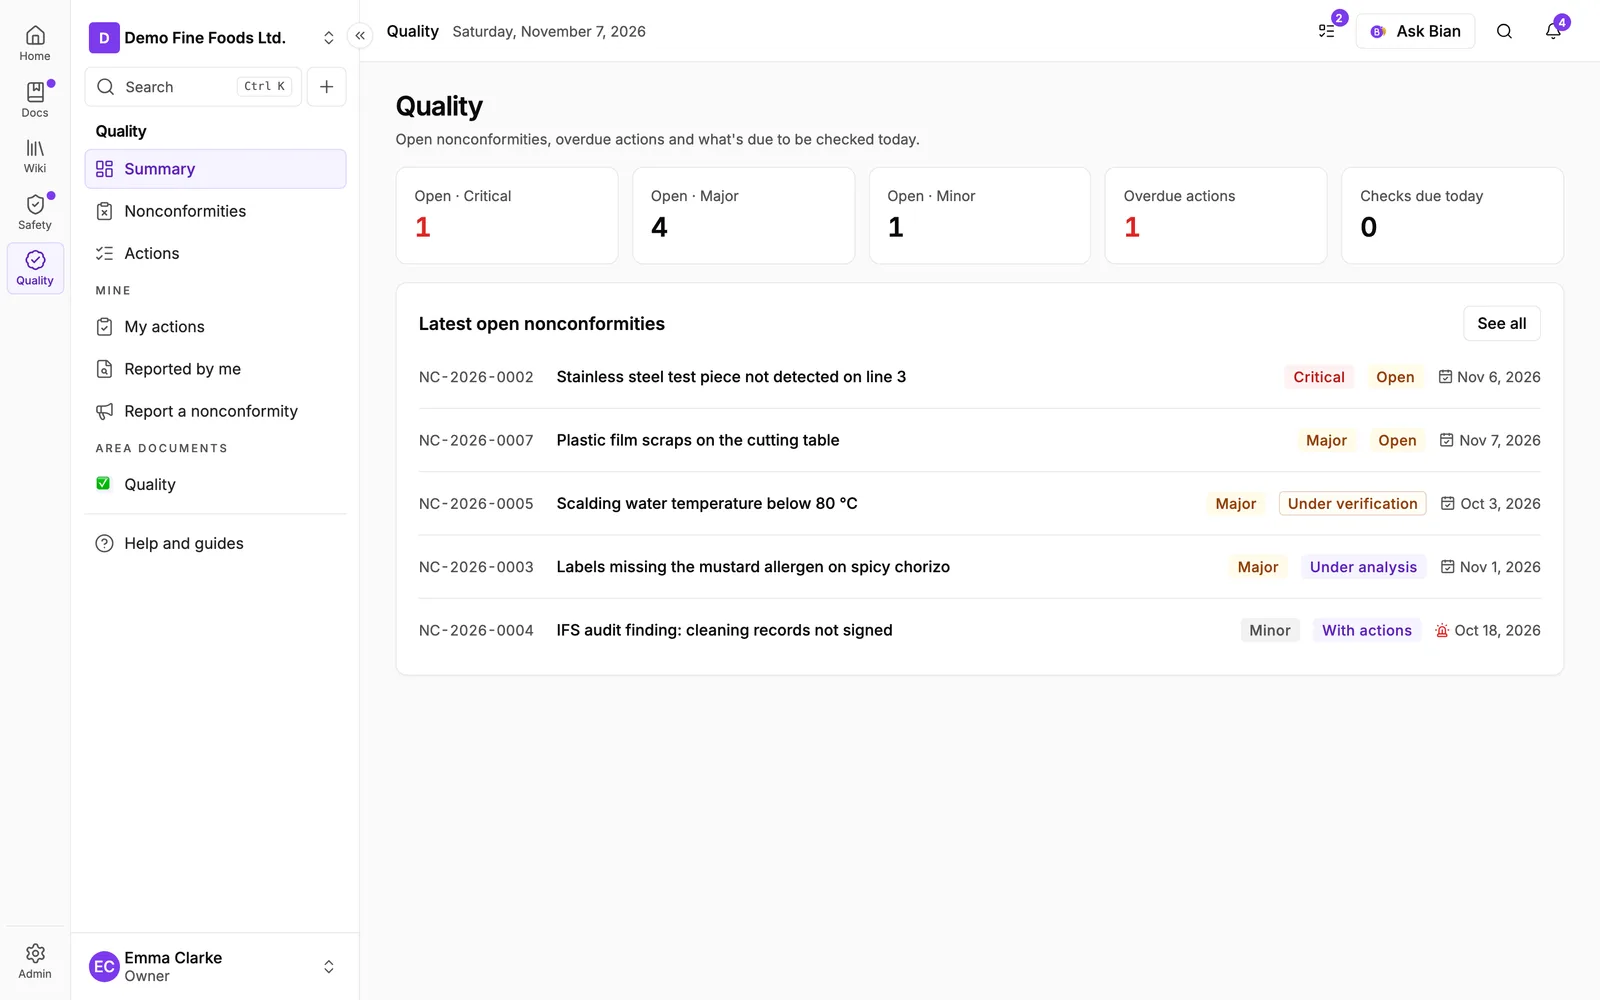
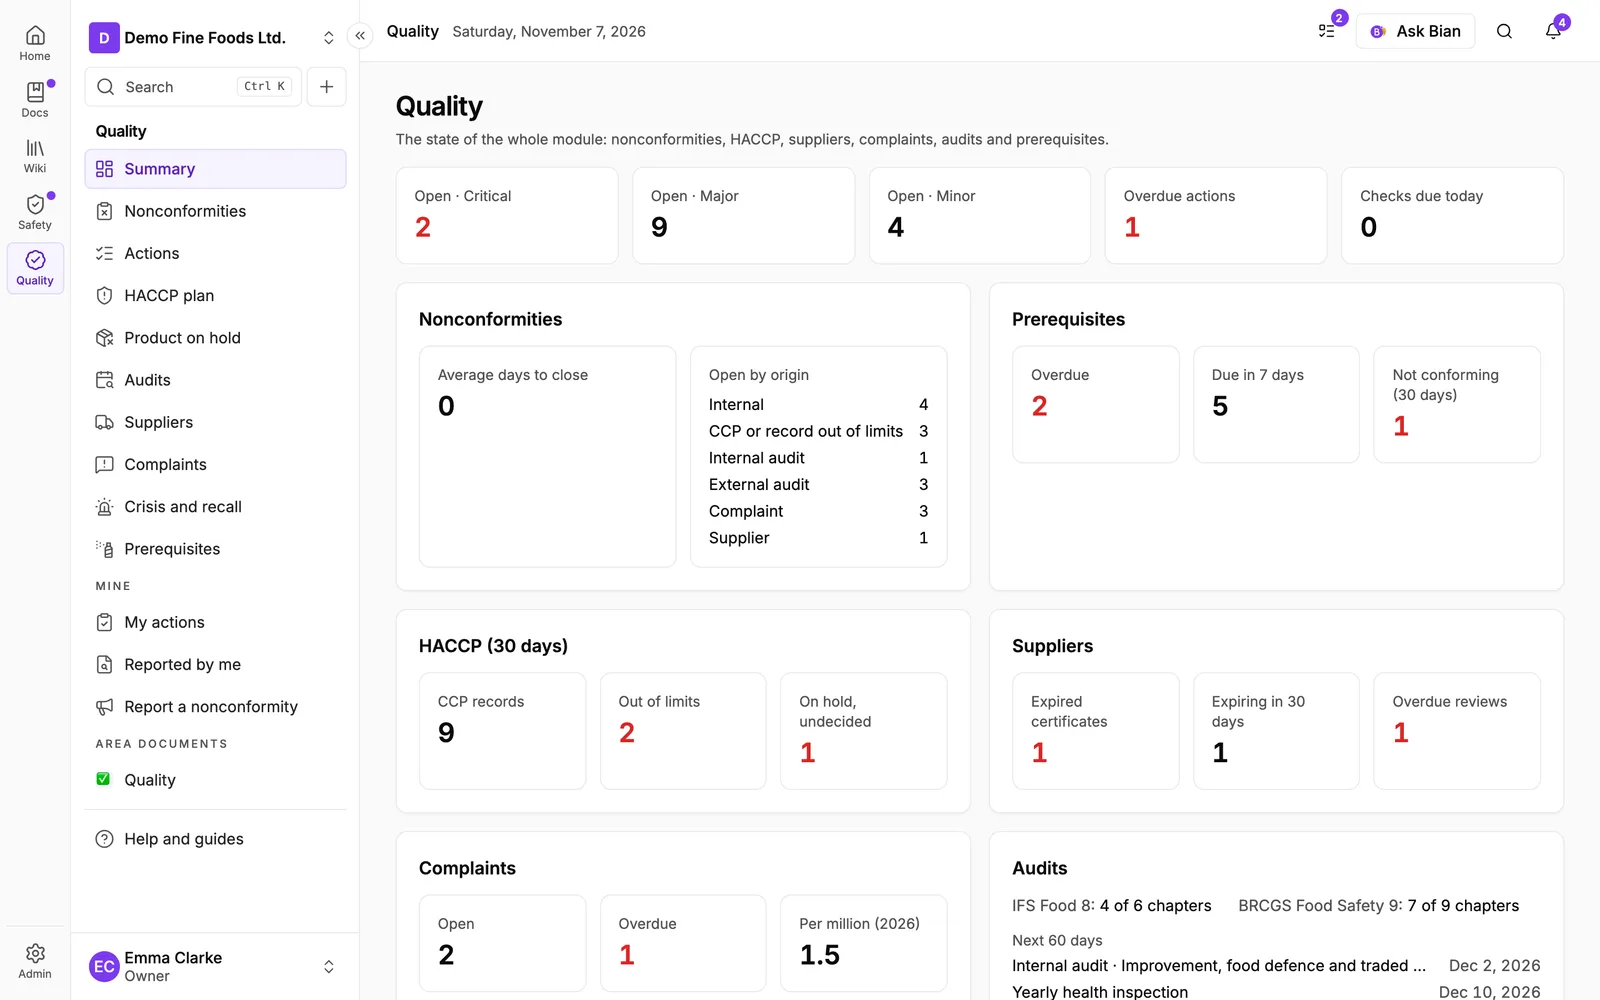
docs(quality): prerequisites guide, dashboard, screenshots and demo (phase 6a)

diff --git a/web/scripts/demo-quality.ts b/web/scripts/demo-quality.ts
@@ -1245,7 +1245,7 @@ export async function demoComplaints(
     `SELECT c.id FROM "QualityComplaint" c JOIN "Workspace" w ON w.id = c."workspaceId" WHERE w.slug = $1 LIMIT 1`,
     [target.slug],
   );
-  if (rows.length > 0) return counts;
+  if (rows.length > 0) return await demoPrps(target, counts);
   const t = COMPLAINTS[target.locale];
   for (const item of t.items) {
     const { complaint } = await call<{ complaint: { id: string } }>("POST", "/quality/complaints", {
@@ -1303,5 +1303,203 @@ export async function demoComplaints(
     recoveredPercent: 100,
     result: t.test.result,
   });
+  return await demoPrps(target, counts);
+}
+
+type PrpKind = "CLEANING" | "PEST" | "WATER" | "CALIBRATION" | "GLASS" | "WASTE";
+
+interface DemoPrp {
+  kind: PrpKind;
+  name: string;
+  location: string;
+  everyDays: number;
+  /** Days ago of each check, oldest first; one with a note is not conforming. */
+  checks: { ago: number; note?: string }[];
+  /** The responsible person: an index of peopleEmails. */
+  person: number;
+}
+
+const PRPS: Record<"es" | "en", DemoPrp[]> = {
+  es: [
+    {
+      kind: "CLEANING",
+      name: "Limpieza y desinfección de la sala de despiece",
+      location: "Sala 2",
+      everyDays: 1,
+      person: 1,
+      checks: [
+        { ago: 3 },
+        { ago: 2, note: "Restos de grasa bajo la cinta transportadora; se repitió la limpieza." },
+        { ago: 1 },
+      ],
+    },
+    {
+      kind: "CLEANING",
+      name: "Verificación de limpieza con luminómetro (ATP)",
+      location: "Cámaras y salas",
+      everyDays: 7,
+      person: 0,
+      checks: [{ ago: 12 }, { ago: 5 }],
+    },
+    {
+      kind: "PEST",
+      name: "Revisión de cebos y trampas (empresa externa)",
+      location: "Perímetro y muelles",
+      everyDays: 30,
+      person: 0,
+      checks: [{ ago: 58 }, { ago: 28 }],
+    },
+    {
+      kind: "WATER",
+      name: "Control de cloro libre en el agua",
+      location: "Grifo de la sala 1",
+      everyDays: 1,
+      person: 1,
+      checks: [{ ago: 4 }, { ago: 3 }],
+    },
+    {
+      kind: "CALIBRATION",
+      name: "Verificación de termómetros de sonda",
+      location: "Laboratorio",
+      everyDays: 30,
+      person: 0,
+      checks: [{ ago: 25 }],
+    },
+    {
+      kind: "CALIBRATION",
+      name: "Calibración de la báscula de expedición",
+      location: "Expedición",
+      everyDays: 180,
+      person: 0,
+      checks: [{ ago: 120 }],
+    },
+    {
+      kind: "GLASS",
+      name: "Inventario de vidrio y plástico duro",
+      location: "Toda la planta",
+      everyDays: 30,
+      person: 1,
+      checks: [{ ago: 40 }],
+    },
+    {
+      kind: "WASTE",
+      name: "Retirada de subproductos SANDACH (categoría 3)",
+      location: "Contenedor exterior",
+      everyDays: 7,
+      person: 1,
+      checks: [{ ago: 9 }, { ago: 2 }],
+    },
+  ],
+  en: [
+    {
+      kind: "CLEANING",
+      name: "Cleaning and disinfection of the cutting room",
+      location: "Room 2",
+      everyDays: 1,
+      person: 1,
+      checks: [
+        { ago: 3 },
+        { ago: 2, note: "Grease left under the conveyor belt; cleaned again." },
+        { ago: 1 },
+      ],
+    },
+    {
+      kind: "CLEANING",
+      name: "Cleaning check with luminometer (ATP)",
+      location: "Cold rooms and halls",
+      everyDays: 7,
+      person: 0,
+      checks: [{ ago: 12 }, { ago: 5 }],
+    },
+    {
+      kind: "PEST",
+      name: "Bait and trap inspection (contractor)",
+      location: "Perimeter and docks",
+      everyDays: 30,
+      person: 0,
+      checks: [{ ago: 58 }, { ago: 28 }],
+    },
+    {
+      kind: "WATER",
+      name: "Free chlorine check of the water",
+      location: "Tap in room 1",
+      everyDays: 1,
+      person: 1,
+      checks: [{ ago: 4 }, { ago: 3 }],
+    },
+    {
+      kind: "CALIBRATION",
+      name: "Probe thermometer check",
+      location: "Laboratory",
+      everyDays: 30,
+      person: 0,
+      checks: [{ ago: 25 }],
+    },
+    {
+      kind: "CALIBRATION",
+      name: "Dispatch scale calibration",
+      location: "Dispatch",
+      everyDays: 180,
+      person: 0,
+      checks: [{ ago: 120 }],
+    },
+    {
+      kind: "GLASS",
+      name: "Glass and hard plastic register",
+      location: "Whole plant",
+      everyDays: 30,
+      person: 1,
+      checks: [{ ago: 40 }],
+    },
+    {
+      kind: "WASTE",
+      name: "Animal by-products collection (category 3)",
+      location: "Outside container",
+      everyDays: 7,
+      person: 1,
+      checks: [{ ago: 9 }, { ago: 2 }],
+    },
+  ],
+};
+
+/** Prerequisite programmes (phase 6a): eight controls with their checks, one of them not conforming. */
+export async function demoPrps(
+  target: DemoQualityTarget,
+  counts: Record<string, number>,
+): Promise<Record<string, number>> {
+  const call = apiOf(target.base, target.slug, target.token);
+  const { rows } = await target.db.query<{ id: string }>(
+    `SELECT p.id FROM "QualityPrp" p JOIN "Workspace" w ON w.id = p."workspaceId" WHERE w.slug = $1 LIMIT 1`,
+    [target.slug],
+  );
+  if (rows.length > 0) return counts;
+  const members = await call<{ items: { id: string; email: string | null }[] }>(
+    "GET",
+    "/admin/members?pageSize=100",
+  );
+  const idOf = (index: number) =>
+    members.items.find((item) => item.email === target.peopleEmails[index])?.id ?? null;
+  for (const item of PRPS[target.locale]) {
+    const first = item.checks[0]?.ago ?? 0;
+    const { prp } = await call<{ prp: { id: string } }>("POST", "/quality/prps", {
+      kind: item.kind,
+      name: item.name,
+      location: item.location,
+      everyDays: item.everyDays,
+      responsibleId: idOf(item.person),
+      formId: null,
+      nextDueOn: day(-first),
+    });
+    counts.prps = (counts.prps ?? 0) + 1;
+    for (const check of item.checks) {
+      await call("POST", `/quality/prps/${prp.id}/checks`, {
+        doneOn: day(-check.ago),
+        conforming: check.note === undefined,
+        note: check.note ?? null,
+        openNc: check.note !== undefined,
+        severity: "MINOR",
+      });
+    }
+  }
   return counts;
 }

diff --git a/web/scripts/capturas.ts b/web/scripts/capturas.ts
@@ -1076,6 +1076,12 @@ const CAPTURES: Capture[] = [
     before: ({ slug, locale }) => demoQualityOf(locale, slug),
   },
   {
+    name: "calidad-prerrequisitos",
+    who: "owner",
+    path: (i) => `/app/${i.slug}/calidad/prerrequisitos`,
+    before: ({ slug, locale }) => demoQualityOf(locale, slug),
+  },
+  {
     name: "calidad-comunicar",
     who: "owner",
     path: (i) => `/app/${i.slug}/calidad/comunicar`,

diff --git a/web/src/i18n/es/routes.ts b/web/src/i18n/es/routes.ts
@@ -59,6 +59,7 @@ export const routes: LocaleRoutes = {
     qualityAudits: "auditorias",
     qualitySuppliers: "proveedores",
     qualityComplaints: "reclamaciones-y-retirada",
+    qualityPrps: "prerrequisitos",
     search: "busqueda",
     bian: "bian",
     security2fa: "seguridad-y-2fa",

diff --git a/web/src/i18n/en/routes.ts b/web/src/i18n/en/routes.ts
@@ -59,6 +59,7 @@ export const routes: LocaleRoutes = {
     qualityAudits: "audits",
     qualitySuppliers: "suppliers",
     qualityComplaints: "complaints-and-recall",
+    qualityPrps: "prerequisites",
     search: "search",
     bian: "bian",
     security2fa: "security-and-2fa",

diff --git a/web/src/i18n/routes.ts b/web/src/i18n/routes.ts
@@ -66,6 +66,7 @@ export const DOC_KEYS = [
   "qualityAudits",
   "qualitySuppliers",
   "qualityComplaints",
+  "qualityPrps",
   "search",
   "bian",
   "security2fa",

diff --git a/docs/spec/calidad.md b/docs/spec/calidad.md
@@ -585,6 +585,23 @@ y plástico duro, residuos y SANDACH) son controles periódicos con su responsab
   `GET /quality/prps/:id/checks`, `POST /quality/prps/:id/checks` `{ doneOn, conforming, note?, openNc,
   severity? }`, `GET /quality/dashboard`.
 
+### Hecho (fase 6a)
+
+Hecha el 07/11/2026. Migración `quality_prerequisites` (`QualityPrp`, `QualityPrpCheck`). Backend en
+`prps.service.ts`, `prps.schemas.ts` y `dashboard.service.ts`, vencimiento `quality.prp`; pantalla
+**Prerrequisitos** y el **Resumen** convertido en el panel. Demo (`demoPrps`), capturas
+`calidad-prerrequisitos` y `calidad-resumen` (nueva), guía **Prerrequisitos** (es y en), la de **Calidad:
+primeros pasos** actualizada y tests de seguridad.
+
+Simplificaciones y añadidos:
+
+- `POST /quality/prps/:id/restore` restaura un control archivado.
+- Un control registrado con una fecha anterior al último no mueve la próxima fecha.
+- Quien no tiene `quality.view` ve en **Lo mío** «Mis controles», con los controles a su cargo.
+- Los invitados no entran (403) ni pueden ser responsables de un control.
+- El tiempo medio de cierre cuenta las NC cerradas en los últimos 12 meses (no en el año natural).
+- La NC de un control no conforme queda a cargo del responsable del control (o de quien lo registra).
+
 
 ## Fases
 

diff --git a/docs/plans/pendientes.md b/docs/plans/pendientes.md
@@ -51,10 +51,11 @@ Hay que analizar y decidir con él, sin código todavía:
 - [ ] **Calidad alimentaria** (IFS 8 / BRCGS 9, cárnicas): notas, 14 bloques y orden en
       [2026-11-07-modulo-calidad.md](2026-11-07-modulo-calidad.md). Núcleo, **módulo aparte en el menú**,
       activable por empresa como Prevención. Spec [docs/spec/calidad.md](../spec/calidad.md) aprobada;
-      **fases 1 a 5 cerradas** (07/11/2026): no conformidades y CAPA; plan APPCC, PCC, plantilla
+      **fases 1 a 5 y 6a cerradas** (07/11/2026): no conformidades y CAPA; plan APPCC, PCC, plantilla
       cárnica y producto retenido; auditorías con su cobertura y hallazgos; proveedores con documentos,
-      vencimientos y evaluación; reclamaciones, crisis y retirada. Con sus tests de seguridad. Sigue la
-      fase 6 (panel y prerrequisitos).
+      vencimientos y evaluación; reclamaciones, crisis y retirada; panel de indicadores y prerrequisitos.
+      Con sus tests de seguridad. Sigue la fase 6b (especificaciones y etiquetado, plan analítico,
+      cultura y gestión de cambios: primero su spec).
 
 ## Migración a spider-ui
 
